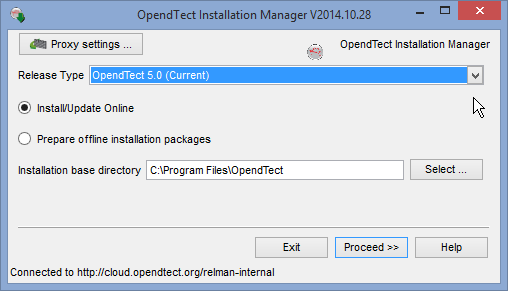
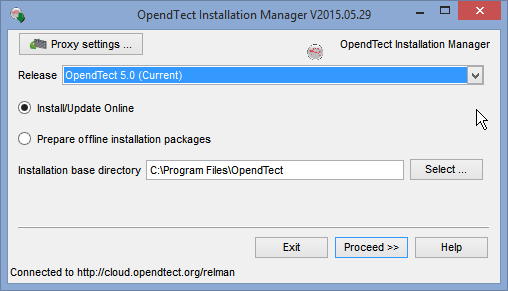
Updated section on Installation Manager to reflect new name in Utilities menu (new name is 'Update')

diff --git a/od_userdoc/Content/utils/install/inst_man.htm b/od_userdoc/Content/utils/install/inst_man.htm
@@ -1,9 +1,9 @@
 <?xml version="1.0" encoding="utf-8"?>
-<html xmlns:MadCap="http://www.madcapsoftware.com/Schemas/MadCap.xsd" MadCap:lastBlockDepth="2" MadCap:lastHeight="1716" MadCap:lastWidth="1298">
+<html xmlns:MadCap="http://www.madcapsoftware.com/Schemas/MadCap.xsd" MadCap:lastBlockDepth="2" MadCap:lastHeight="1804" MadCap:lastWidth="1074">
     <head>
     </head>
     <body>
-        <h3>Installation Manager</h3>
+        <h3>Update (Installation Manager)</h3>
         <p>The Installation Manager is available for download via the appropriate platform link on this page of our website: <a href="http://opendtect.org/index.php/products/download" target="_blank">http://opendtect.org/index.php/products/download</a></p>
         <p>&#160;</p>
         <p>
